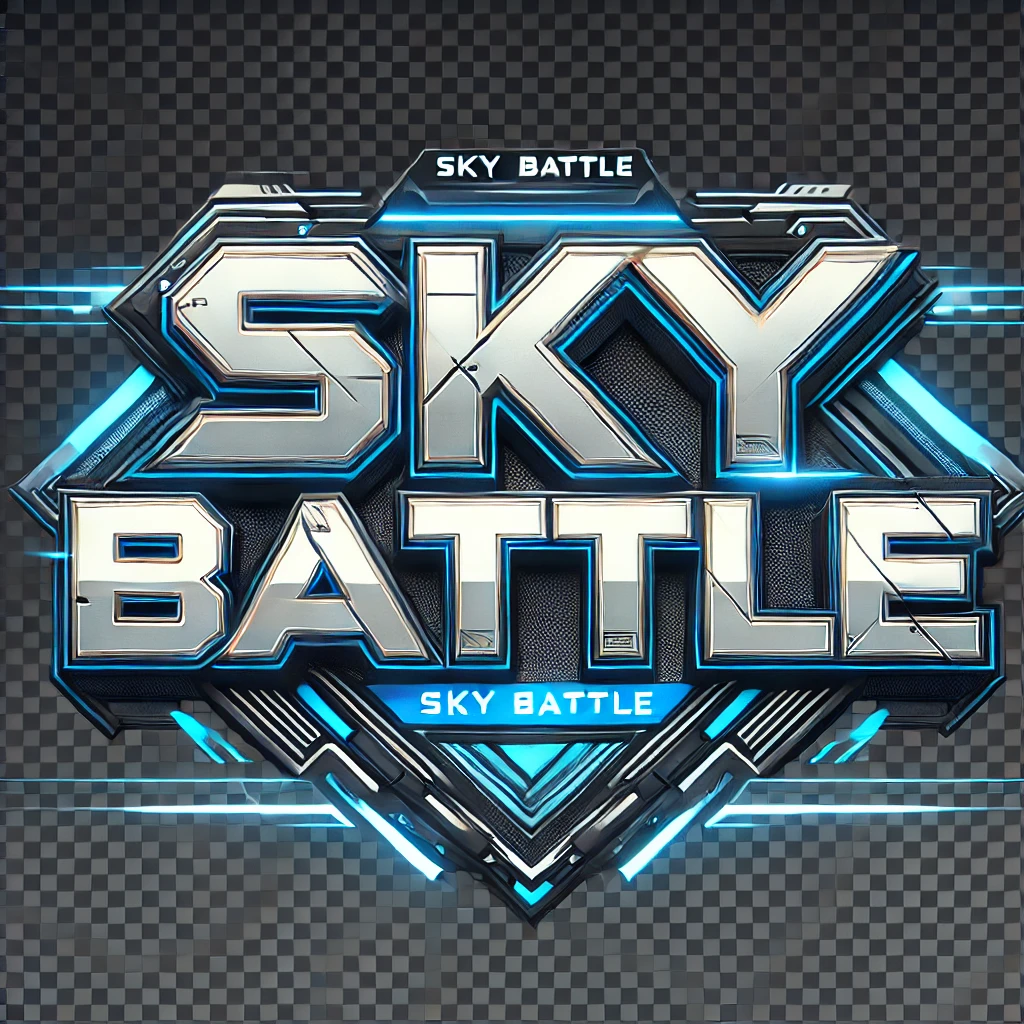
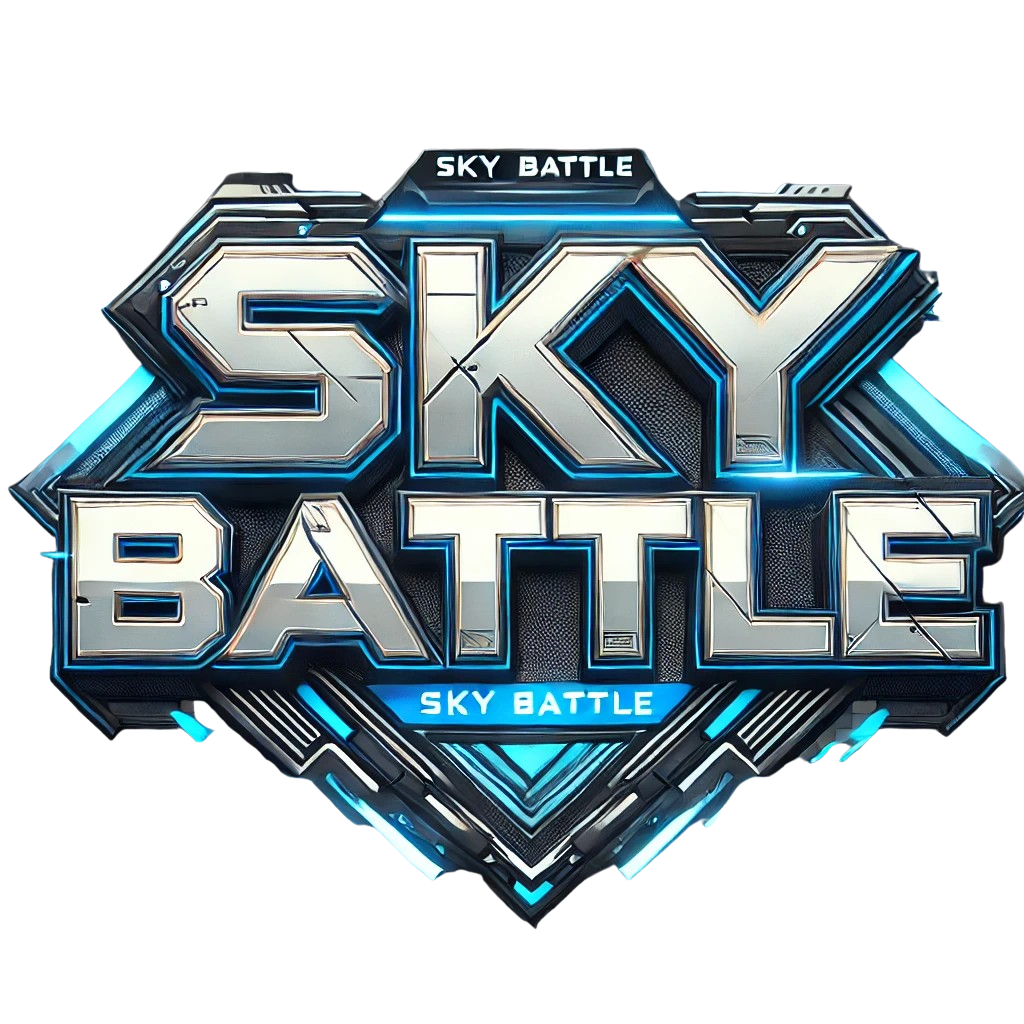
Enhancement: Replaced non-transparent images with transparent versions.

diff --git a/src/main/java/com/example/demo/MainMenu.java b/src/main/java/com/example/demo/MainMenu.java
@@ -1,0 +1,82 @@
+package com.example.demo;
+
+import com.example.demo.controller.Controller;
+
+import javafx.scene.Scene;
+import javafx.scene.image.Image;
+import javafx.scene.image.ImageView;
+import javafx.scene.layout.Pane;
+import javafx.stage.Stage;
+
+public class MainMenu {
+
+    private final Stage stage;
+    private final Scene scene;
+
+    public MainMenu(Stage stage) {
+        this.stage = stage;
+        this.scene = initializeScene();
+    }
+
+    public Scene getScene() {
+        return scene;
+    }
+
+    private Scene initializeScene() {
+        Pane root = new Pane();
+
+        // Set the background image
+        ImageView background = new ImageView(new Image(getClass().getResource("/com/example/demo/images/mainmenu.png").toExternalForm()));
+        background.setFitHeight(stage.getHeight());
+        background.setFitWidth(stage.getWidth());
+        root.getChildren().add(background);
+
+        // Add the title
+        ImageView title = new ImageView(new Image(getClass().getResource("/com/example/demo/images/skybattle.png").toExternalForm()));
+        title.setFitWidth(500); // Adjust title size
+        title.setPreserveRatio(true);
+        title.setLayoutX(stage.getWidth() / 2 - 250); // Center horizontally
+        title.setLayoutY(50); // Position near the top
+        root.getChildren().add(title);
+
+        // Add the Play button
+        ImageView playButton = createButton("/com/example/demo/images/play.png", stage.getWidth() / 2 - 150, 200);
+        playButton.setOnMouseClicked(e -> launchGame());
+        root.getChildren().add(playButton);
+
+        // Add the Level Selection button
+        ImageView levelSelectButton = createButton("/com/example/demo/images/levelselection.png", stage.getWidth() / 2 - 150, 300);
+        levelSelectButton.setOnMouseClicked(e -> showLevelSelection());
+        root.getChildren().add(levelSelectButton);
+
+        // Add the Quit button
+        ImageView quitButton = createButton("/com/example/demo/images/quit.png", stage.getWidth() / 2 - 150, 400);
+        quitButton.setOnMouseClicked(e -> stage.close());
+        root.getChildren().add(quitButton);
+
+        return new Scene(root, stage.getWidth(), stage.getHeight());
+    }
+
+    private ImageView createButton(String imagePath, double x, double y) {
+        ImageView button = new ImageView(new Image(getClass().getResource(imagePath).toExternalForm()));
+        button.setFitWidth(300); // Button width
+        button.setPreserveRatio(true); // Maintain aspect ratio
+        button.setLayoutX(x);
+        button.setLayoutY(y);
+        return button;
+    }
+
+    private void launchGame() {
+        try {
+            Controller controller = new Controller(stage);
+            controller.startLevelOne(); // Starts LevelOne
+        } catch (Exception ex) {
+            ex.printStackTrace();
+        }
+    }
+
+    private void showLevelSelection() {
+        LevelSelection levelSelection = new LevelSelection(stage);
+        stage.setScene(levelSelection.getScene());
+    }
+}

diff --git a/src/main/java/com/example/demo/controller/Controller.java b/src/main/java/com/example/demo/controller/Controller.java
@@ -21,22 +21,30 @@ public class Controller implements Observer {
 	}
 
 	public void launchGame() throws ClassNotFoundException, NoSuchMethodException, SecurityException,
-			InstantiationException, IllegalAccessException, IllegalArgumentException, InvocationTargetException  {
+			InstantiationException, IllegalAccessException, IllegalArgumentException, InvocationTargetException {
 
-			stage.show();
-			goToLevel(LEVEL_ONE_CLASS_NAME);
+		stage.show();
+		goToLevel(LEVEL_ONE_CLASS_NAME);
+	}
+
+	public void startLevelOne() {
+		try {
+			goToLevel("com.example.demo.LevelOne");
+		} catch (ClassNotFoundException | NoSuchMethodException | SecurityException | InstantiationException
+				 | IllegalAccessException | IllegalArgumentException | InvocationTargetException e) {
+			e.printStackTrace();
+		}
 	}
 
 	private void goToLevel(String className) throws ClassNotFoundException, NoSuchMethodException, SecurityException,
 			InstantiationException, IllegalAccessException, IllegalArgumentException, InvocationTargetException {
-			Class<?> myClass = Class.forName(className);
-			Constructor<?> constructor = myClass.getConstructor(double.class, double.class);
-			LevelParent myLevel = (LevelParent) constructor.newInstance(stage.getHeight(), stage.getWidth());
-			myLevel.addObserver(this);
-			Scene scene = myLevel.initializeScene();
-			stage.setScene(scene);
-			myLevel.startGame();
-
+		Class<?> myClass = Class.forName(className);
+		Constructor<?> constructor = myClass.getConstructor(double.class, double.class);
+		LevelParent myLevel = (LevelParent) constructor.newInstance(stage.getHeight(), stage.getWidth());
+		myLevel.addObserver(this);
+		Scene scene = myLevel.initializeScene();
+		stage.setScene(scene);
+		myLevel.startGame();
 	}
 
 	@Override
@@ -44,11 +52,10 @@ public class Controller implements Observer {
 		try {
 			goToLevel((String) arg1);
 		} catch (ClassNotFoundException | NoSuchMethodException | SecurityException | InstantiationException
-				| IllegalAccessException | IllegalArgumentException | InvocationTargetException e) {
+				 | IllegalAccessException | IllegalArgumentException | InvocationTargetException e) {
 			Alert alert = new Alert(AlertType.ERROR);
 			alert.setContentText(e.getClass().toString());
 			alert.show();
 		}
 	}
-
 }

diff --git a/src/main/java/com/example/demo/LevelSelection.java b/src/main/java/com/example/demo/LevelSelection.java
@@ -1,0 +1,42 @@
+package com.example.demo;
+
+import javafx.scene.Scene;
+import javafx.scene.image.Image;
+import javafx.scene.image.ImageView;
+import javafx.scene.layout.Pane;
+import javafx.stage.Stage;
+
+public class LevelSelection {
+
+    private final Stage stage;
+    private final Scene scene;
+
+    public LevelSelection(Stage stage) {
+        this.stage = stage;
+        this.scene = initializeScene();
+    }
+
+    public Scene getScene() {
+        return scene;
+    }
+
+    private Scene initializeScene() {
+        Pane root = new Pane();
+
+        // Set the background image
+        ImageView background = new ImageView(new Image(getClass().getResource("/com/example/demo/images/mainmenu.png").toExternalForm()));
+        background.setFitHeight(stage.getHeight());
+        background.setFitWidth(stage.getWidth());
+        root.getChildren().add(background);
+
+        // Placeholder message
+        // This is temporary until the thumbnails are added
+        javafx.scene.text.Text placeholderText = new javafx.scene.text.Text("Level Selection Coming Soon...");
+        placeholderText.setStyle("-fx-font-size: 24px; -fx-fill: white;");
+        placeholderText.setX(stage.getWidth() / 2 - 150); // Center horizontally
+        placeholderText.setY(stage.getHeight() / 2);      // Center vertically
+        root.getChildren().add(placeholderText);
+
+        return new Scene(root, stage.getWidth(), stage.getHeight());
+    }
+}

diff --git a/src/main/java/com/example/demo/controller/Main.java b/src/main/java/com/example/demo/controller/Main.java
@@ -1,26 +1,26 @@
 package com.example.demo.controller;
 
-import java.lang.reflect.InvocationTargetException;
-
 import javafx.application.Application;
 import javafx.stage.Stage;
+import com.example.demo.MainMenu;
 
 public class Main extends Application {
 
 	private static final int SCREEN_WIDTH = 1300;
 	private static final int SCREEN_HEIGHT = 750;
 	private static final String TITLE = "Sky Battle";
-	private Controller myController;
 
 	@Override
-	public void start(Stage stage) throws ClassNotFoundException, NoSuchMethodException, SecurityException,
-			InstantiationException, IllegalAccessException, IllegalArgumentException, InvocationTargetException {
+	public void start(Stage stage) {
 		stage.setTitle(TITLE);
 		stage.setResizable(false);
 		stage.setHeight(SCREEN_HEIGHT);
 		stage.setWidth(SCREEN_WIDTH);
-		myController = new Controller(stage);
-		myController.launchGame();
+
+		// Show the Main Menu first
+		MainMenu mainMenu = new MainMenu(stage);
+		stage.setScene(mainMenu.getScene());
+		stage.show();
 	}
 
 	public static void main(String[] args) {
